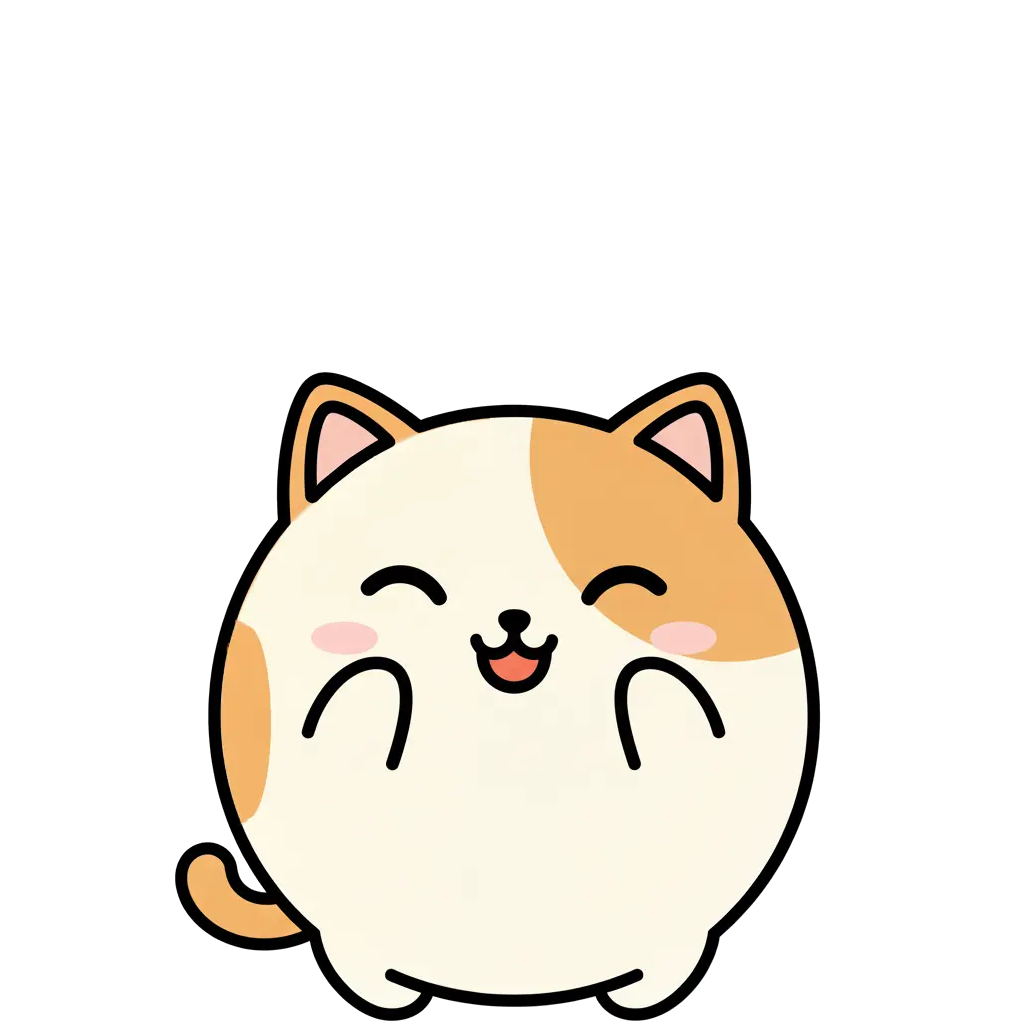
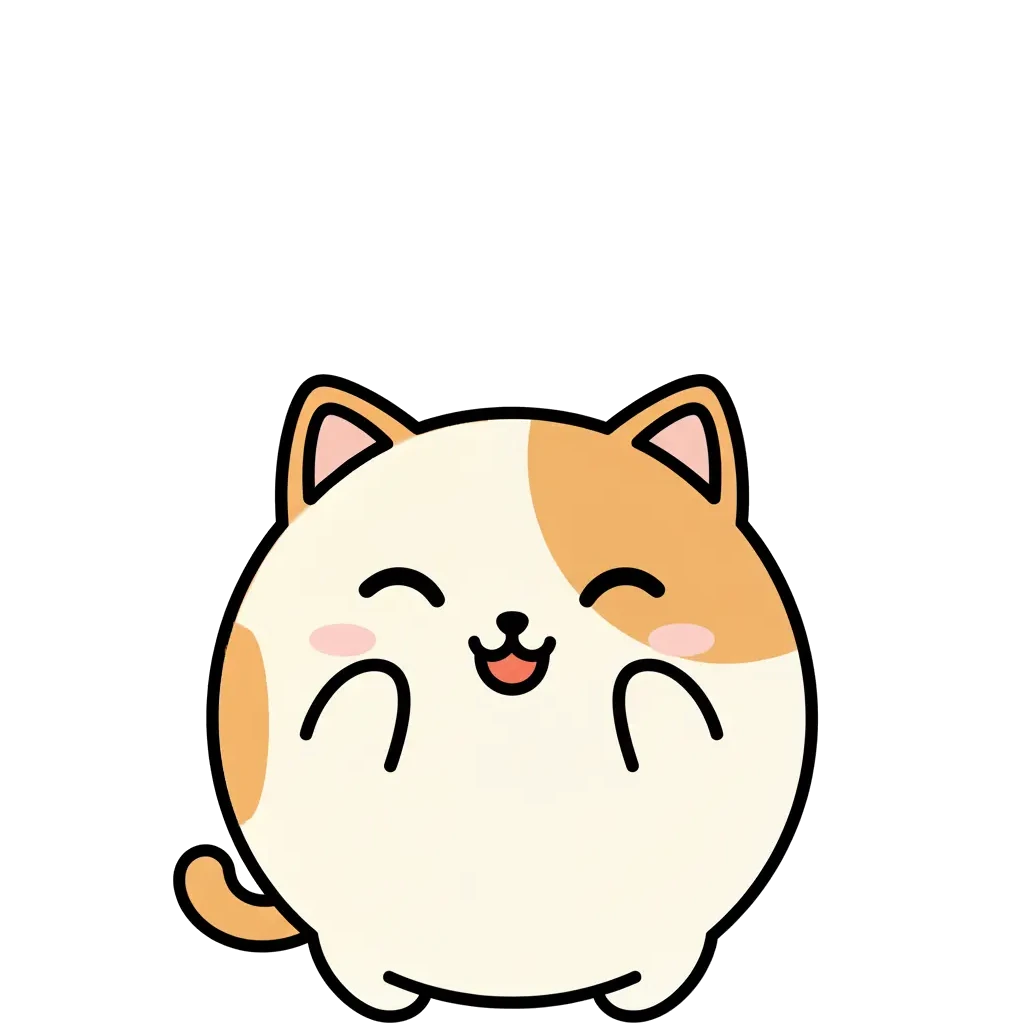
feat: add sprite animation for mascot (idle, happy, calm, sleepy)
- MascotSpriteWidget: frame-by-frame cycling at 4fps, idle/happy loop 1-2x then stop, calm/sleepy loop infinitely
- Breathing exercise: phase-driven frame control (inhale loop f1↔f2, hold=f3, exhale loop f3↔f4 at 2fps, pause=f1)
- Add 3 extra frames per expression (12 new WebP assets)

diff --git a/lib/screens/modals/breathing_exercise_modal.dart b/lib/screens/modals/breathing_exercise_modal.dart
@@ -7,8 +7,8 @@ import '../../core/widgets/app_button.dart';
 import '../../core/utils/data_manager.dart';
 import '../../core/utils/breathing_exercise_service.dart';
 import '../../core/utils/sfx_service.dart';
-import '../../core/utils/asset_loader.dart';
 import '../../core/l10n/app_localizations.dart';
+import '../../core/widgets/mascot_sprite_widget.dart';
 import '../../models/breathing_session.dart';
 import '../../models/scene_models.dart';
 import 'package:provider/provider.dart';
@@ -79,6 +79,11 @@ class _BreathingExerciseModalState extends State<BreathingExerciseModal>
   String _currentPhase = 'inhale';
   double _currentProgress = 0.0;
 
+  // Breathing sprite animation
+  int _breathingFrame = 0;
+  Timer? _breathingFrameTimer;
+  String _lastBreathingPhase = '';
+
   // Speech bubble
   String? _cycleMessage;
   Timer? _bubbleTimer;
@@ -108,6 +113,7 @@ class _BreathingExerciseModalState extends State<BreathingExerciseModal>
   void dispose() {
     _timer?.cancel();
     _bubbleTimer?.cancel();
+    _breathingFrameTimer?.cancel();
     _scaleController.dispose();
     super.dispose();
   }
@@ -251,10 +257,10 @@ class _BreathingExerciseModalState extends State<BreathingExerciseModal>
                           child: ScaleTransition(
                             scale: _scaleAnimation,
                             alignment: Alignment.bottomCenter,
-                            child: Image.asset(
-                              AssetLoader.getMascotAsset(MascotExpression.calm),
-                              width: mascotSize,
-                              height: mascotSize,
+                            child: MascotSpriteWidget(
+                              expression: MascotExpression.calm,
+                              size: mascotSize,
+                              frameIndex: _breathingFrame,
                             ),
                           ),
                         ),
@@ -367,6 +373,10 @@ class _BreathingExerciseModalState extends State<BreathingExerciseModal>
       _cycleMessage = null;
     });
     _scaleController.reset();
+    _breathingFrameTimer?.cancel();
+    _breathingFrameTimer = null;
+    _breathingFrame = 0;
+    _lastBreathingPhase = '';
     _updatePhaseAndAnimation();
 
     _timer = Timer.periodic(const Duration(seconds: 1), (timer) {
@@ -404,6 +414,36 @@ class _BreathingExerciseModalState extends State<BreathingExerciseModal>
     });
   }
 
+  /// Cycling frame theo phase: inhale loop f0↔f1, hold=f2, exhale loop f2↔f3, pause=f0.
+  void _updateBreathingFrame(String phase) {
+    if (phase == _lastBreathingPhase) return;
+    _lastBreathingPhase = phase;
+    _breathingFrameTimer?.cancel();
+    _breathingFrameTimer = null;
+    switch (phase) {
+      case 'inhale':
+        _breathingFrame = 0;
+        _breathingFrameTimer = Timer.periodic(
+          const Duration(milliseconds: 500), // 2fps
+          (_) {
+            if (mounted) setState(() => _breathingFrame = _breathingFrame == 0 ? 1 : 0);
+          },
+        );
+      case 'hold':
+        _breathingFrame = 2;
+      case 'exhale':
+        _breathingFrame = 2;
+        _breathingFrameTimer = Timer.periodic(
+          const Duration(milliseconds: 500),
+          (_) {
+            if (mounted) setState(() => _breathingFrame = _breathingFrame == 2 ? 3 : 2);
+          },
+        );
+      default: // pause
+        _breathingFrame = 0;
+    }
+  }
+
   /// Updates current phase, progress, and mascot animation
   /// Called from timer callback instead of build() for better performance
   void _updatePhaseAndAnimation() {
@@ -426,12 +466,19 @@ class _BreathingExerciseModalState extends State<BreathingExerciseModal>
         duration: const Duration(milliseconds: 500),
       );
     }
+    _updateBreathingFrame(_currentPhase);
   }
 
   Future<void> _stopSession() async {
     _timer?.cancel();
+    _breathingFrameTimer?.cancel();
+    _breathingFrameTimer = null;
+    _lastBreathingPhase = '';
     if (!mounted) return;
-    setState(() => _isActive = false);
+    setState(() {
+      _isActive = false;
+      _breathingFrame = 0;
+    });
 
     // Save session if at least 30s
     if (_elapsedSeconds >= 30) {

diff --git a/lib/core/widgets/mascot_sprite_widget.dart b/lib/core/widgets/mascot_sprite_widget.dart
@@ -1,0 +1,124 @@
+import 'dart:async';
+import 'dart:math';
+import 'package:flutter/material.dart';
+import '../constants/app_assets.dart';
+import '../../models/scene_models.dart';
+
+class MascotSpriteWidget extends StatefulWidget {
+  const MascotSpriteWidget({
+    super.key,
+    required this.expression,
+    required this.size,
+    this.fps,
+    this.frameIndex,
+  });
+
+  final MascotExpression expression;
+  final double size;
+
+  /// Tốc độ khung hình (frames/giây). null = dùng mặc định theo expression.
+  /// Mặc định: sleepy = 2fps, các trạng thái khác = 10fps.
+  final int? fps;
+
+  /// Khi khác null, widget hiển thị frame này và không chạy timer nội bộ.
+  /// Dùng để điều khiển animation từ bên ngoài (ví dụ: breathing exercise).
+  final int? frameIndex;
+
+  @override
+  State<MascotSpriteWidget> createState() => _MascotSpriteWidgetState();
+}
+
+class _MascotSpriteWidgetState extends State<MascotSpriteWidget> {
+  static final _random = Random();
+
+  int _frameIndex = 0;
+  int _completedLoops = 0;
+  int? _targetLoopCount;
+  Timer? _timer;
+
+  List<String> get _frames =>
+      AppAssets.mascotFrames[widget.expression] ??
+      [AppAssets.mascotAssets[widget.expression]!];
+
+  int get _effectiveFps =>
+      widget.fps ??
+      switch (widget.expression) {
+        MascotExpression.sleepy => 2,
+        _ => 4,
+      };
+
+  // null = loop vô tận
+  static int? _loopCountFor(MascotExpression e) => switch (e) {
+        MascotExpression.idle || MascotExpression.happy =>
+          _random.nextInt(2) + 1, // 1-2 loops @ 4fps ≈ 1-2s
+        _ => null,
+      };
+
+  void _startAnimation() {
+    _timer?.cancel();
+    _timer = null;
+    _frameIndex = 0;
+    _completedLoops = 0;
+    _targetLoopCount = _loopCountFor(widget.expression);
+    if (widget.frameIndex != null) return; // điều khiển từ ngoài, không cần timer
+    if (_frames.length <= 1) return;
+    final interval = Duration(milliseconds: (1000 / _effectiveFps).round());
+    _timer = Timer.periodic(interval, (_) {
+      if (!mounted) return;
+      setState(() {
+        _frameIndex = (_frameIndex + 1) % _frames.length;
+        if (_frameIndex == 0) {
+          _completedLoops++;
+          if (_targetLoopCount != null && _completedLoops >= _targetLoopCount!) {
+            _timer?.cancel();
+            _timer = null;
+          }
+        }
+      });
+    });
+  }
+
+  @override
+  void initState() {
+    super.initState();
+    _startAnimation();
+  }
+
+  @override
+  void didUpdateWidget(MascotSpriteWidget old) {
+    super.didUpdateWidget(old);
+    if (old.expression != widget.expression || old.fps != widget.fps) {
+      _startAnimation();
+    }
+  }
+
+  @override
+  void dispose() {
+    _timer?.cancel();
+    super.dispose();
+  }
+
+  @override
+  Widget build(BuildContext context) {
+    final frameIdx = widget.frameIndex != null
+        ? widget.frameIndex!.clamp(0, _frames.length - 1)
+        : _frameIndex;
+    return Image.asset(
+      _frames[frameIdx],
+      width: widget.size,
+      height: widget.size,
+      fit: BoxFit.contain,
+      gaplessPlayback: true,
+      errorBuilder: (context, _, e) => Container(
+        width: widget.size,
+        height: widget.size,
+        decoration: BoxDecoration(
+          color: Theme.of(context).colorScheme.secondary,
+          shape: BoxShape.circle,
+        ),
+        alignment: Alignment.center,
+        child: Text('🐱', style: TextStyle(fontSize: widget.size / 2)),
+      ),
+    );
+  }
+}

diff --git a/lib/screens/mobile_portrait_screen.dart b/lib/screens/mobile_portrait_screen.dart
@@ -8,6 +8,7 @@ import '../core/utils/sfx_service.dart';
 import '../core/widgets/app_header.dart';
 import '../core/widgets/main_feature_buttons.dart';
 import '../core/widgets/nav_menu_footer.dart';
+import '../core/widgets/mascot_sprite_widget.dart';
 import '../core/widgets/speech_bubble.dart';
 import '../core/providers/scene_provider.dart';
 import 'modals/scene_shop_modal.dart';
@@ -209,24 +210,9 @@ class _MobilePortraitScreenState extends State<MobilePortraitScreen>
                 left: (sceneSize - mascotSize) / 2,
                 child: GestureDetector(
                   onTap: onMascotTapped,
-                  child: Image.asset(
-                    mascotAssetPath,
-                    width: mascotSize,
-                    height: mascotSize,
-                    fit: BoxFit.contain,
-                    errorBuilder: (context, error, stackTrace) {
-                      return Container(
-                        width: mascotSize,
-                        height: mascotSize,
-                        decoration: BoxDecoration(
-                          color: context.theme.secondary,
-                          shape: BoxShape.circle,
-                        ),
-                        alignment: Alignment.center,
-                        child: Text('🐱',
-                            style: TextStyle(fontSize: mascotSize / 2)),
-                      );
-                    },
+                  child: MascotSpriteWidget(
+                    expression: currentExpression,
+                    size: mascotSize,
                   ),
                 ),
               ),

diff --git a/lib/screens/desktop_landscape_screen.dart b/lib/screens/desktop_landscape_screen.dart
@@ -7,6 +7,7 @@ import '../core/constants/app_colors.dart';
 import '../core/constants/app_typography.dart';
 import '../core/mixins/main_screen_mixin.dart';
 import '../core/widgets/app_button.dart';
+import '../core/widgets/mascot_sprite_widget.dart';
 import '../core/widgets/speech_bubble.dart';
 import '../core/providers/scene_provider.dart';
 import '../core/providers/score_provider.dart';
@@ -272,22 +273,9 @@ class _DesktopLandscapeScreenState extends State<DesktopLandscapeScreen>
                 left: (sceneSize - mascotSize) / 2,
                 child: GestureDetector(
                   onTap: onMascotTapped,
-                  child: Image.asset(
-                    mascotAssetPath,
-                    width: mascotSize,
-                    height: mascotSize,
-                    fit: BoxFit.contain,
-                    errorBuilder: (context, error, _) => Container(
-                      width: mascotSize,
-                      height: mascotSize,
-                      decoration: BoxDecoration(
-                        color: context.theme.secondary,
-                        shape: BoxShape.circle,
-                      ),
-                      alignment: Alignment.center,
-                      child: Text('🐱',
-                          style: TextStyle(fontSize: mascotSize / 2)),
-                    ),
+                  child: MascotSpriteWidget(
+                    expression: currentExpression,
+                    size: mascotSize,
                   ),
                 ),
               ),

diff --git a/lib/core/constants/app_assets.dart b/lib/core/constants/app_assets.dart
@@ -205,6 +205,34 @@ class AppAssets {
     MascotExpression.surprised: mascotSurprised,
   };
 
+  /// Frame lists cho sprite animation.
+  static const Map<MascotExpression, List<String>> mascotFrames = {
+    MascotExpression.idle: [
+      mascotIdle,
+      'assets/images/mascot/idle_2.webp',
+      'assets/images/mascot/idle_3.webp',
+      'assets/images/mascot/idle_4.webp',
+    ],
+    MascotExpression.happy: [
+      mascotHappy,
+      'assets/images/mascot/happy_2.webp',
+      'assets/images/mascot/happy_3.webp',
+      'assets/images/mascot/happy_4.webp',
+    ],
+    MascotExpression.calm: [
+      mascotCalm,
+      'assets/images/mascot/calm_2.webp',
+      'assets/images/mascot/calm_3.webp',
+      'assets/images/mascot/calm_4.webp',
+    ],
+    MascotExpression.sleepy: [
+      mascotSleepy,
+      'assets/images/mascot/sleepy_2.webp',
+      'assets/images/mascot/sleepy_3.webp',
+      'assets/images/mascot/sleepy_4.webp',
+    ],
+  };
+
   /// Map BGM name → asset path
   static const Map<String, String> bgmAssets = {
     'Lofi Beats': bgmLofiBeats,
